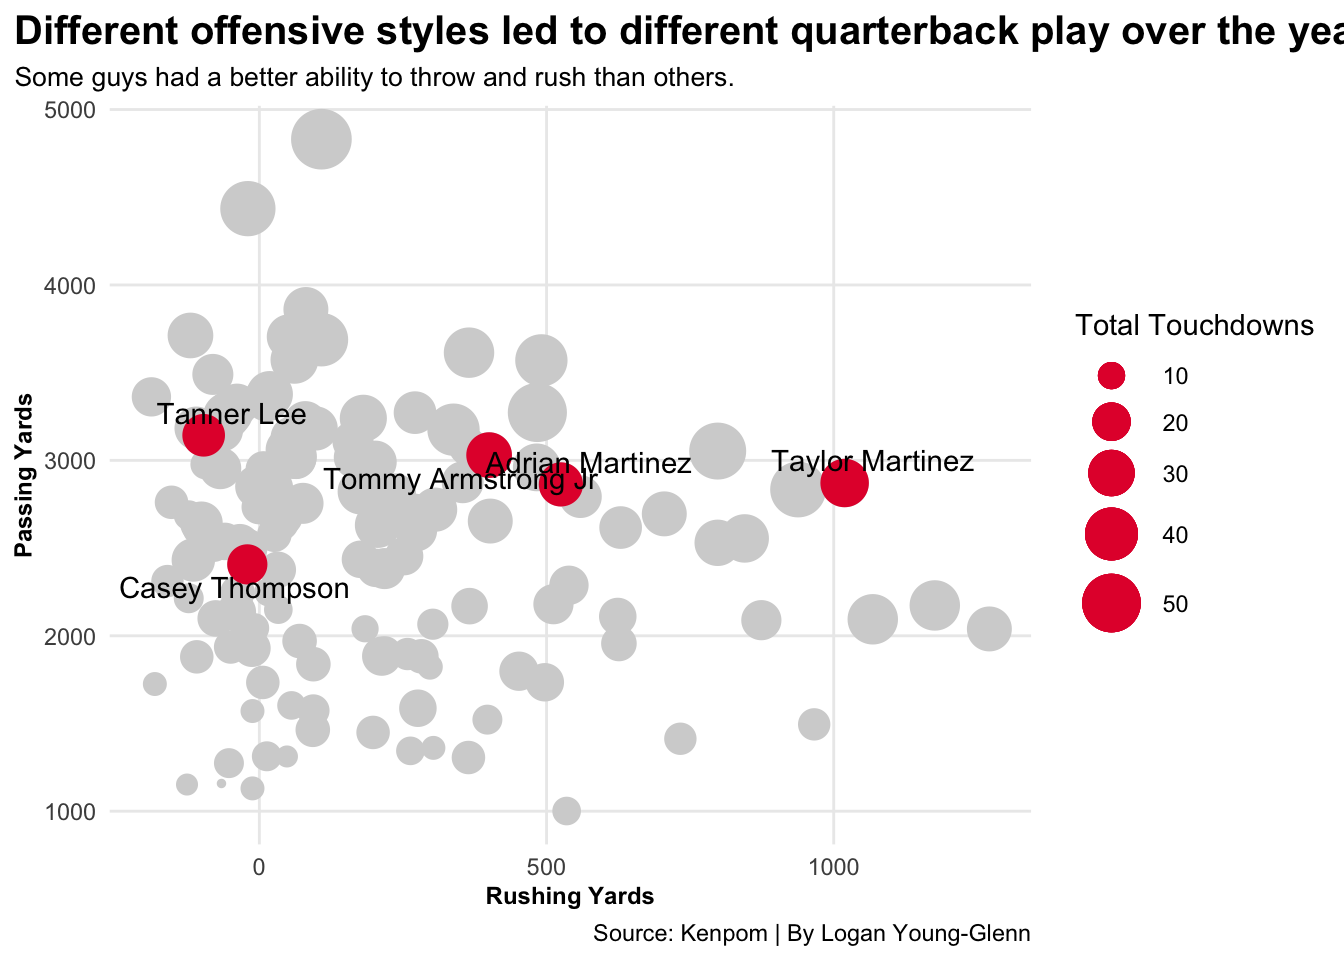
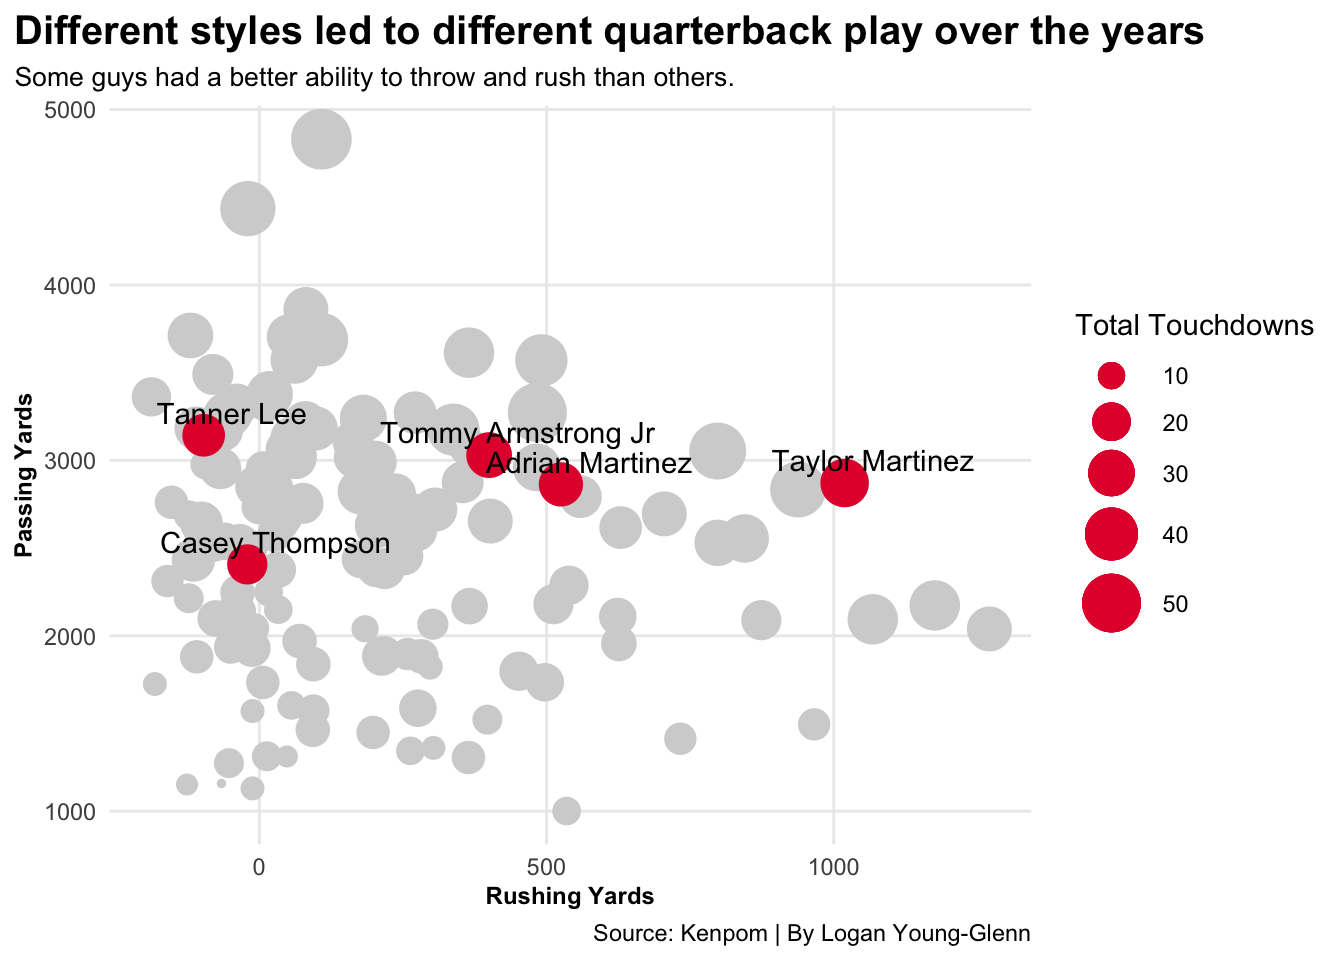
project2final2

diff --git a/posts/quarterback/index.html b/posts/quarterback/index.html
@@ -315,7 +315,7 @@ pre > code.sourceCode > span > a:first-child::before { text-decoration: underlin
 <span id="cb2-28"><a href="#cb2-28" aria-hidden="true" tabindex="-1"></a>  <span class="fu">geom_text_repel</span>(<span class="at">data=</span>tlee,<span class="fu">aes</span>(<span class="at">x=</span><span class="st">`</span><span class="at">Rush Yds</span><span class="st">`</span>, <span class="at">y=</span><span class="st">`</span><span class="at">Pass Yds</span><span class="st">`</span>, <span class="at">label=</span>Player)) <span class="sc">+</span></span>
 <span id="cb2-29"><a href="#cb2-29" aria-hidden="true" tabindex="-1"></a>  <span class="fu">geom_text_repel</span>(<span class="at">data=</span>ct11,<span class="fu">aes</span>(<span class="at">x=</span><span class="st">`</span><span class="at">Rush Yds</span><span class="st">`</span>, <span class="at">y=</span><span class="st">`</span><span class="at">Pass Yds</span><span class="st">`</span>, <span class="at">label=</span>Player)) <span class="sc">+</span> </span>
 <span id="cb2-30"><a href="#cb2-30" aria-hidden="true" tabindex="-1"></a>  <span class="fu">geom_text_repel</span>(<span class="at">data=</span>arm,<span class="fu">aes</span>(<span class="at">x=</span><span class="st">`</span><span class="at">Rush Yds</span><span class="st">`</span>, <span class="at">y=</span><span class="st">`</span><span class="at">Pass Yds</span><span class="st">`</span>, <span class="at">label=</span>Player))  <span class="sc">+</span></span>
-<span id="cb2-31"><a href="#cb2-31" aria-hidden="true" tabindex="-1"></a>  <span class="fu">labs</span>(<span class="at">x=</span><span class="st">"Rushing Yards"</span>, <span class="at">y=</span><span class="st">"Passing Yards"</span>, <span class="at">title=</span><span class="st">"Different offensive styles led to different quarterback play over the years"</span>, <span class="at">subtitle=</span><span class="st">"Some guys had a better ability to throw and rush than others."</span>, <span class="at">caption=</span><span class="st">"Source: Kenpom | By Logan Young-Glenn"</span>) <span class="sc">+</span></span>
+<span id="cb2-31"><a href="#cb2-31" aria-hidden="true" tabindex="-1"></a>  <span class="fu">labs</span>(<span class="at">x=</span><span class="st">"Rushing Yards"</span>, <span class="at">y=</span><span class="st">"Passing Yards"</span>, <span class="at">title=</span><span class="st">"Different styles led to different quarterback play over the years"</span>, <span class="at">subtitle=</span><span class="st">"Some guys had a better ability to throw and rush than others."</span>, <span class="at">caption=</span><span class="st">"Source: Kenpom | By Logan Young-Glenn"</span>) <span class="sc">+</span></span>
 <span id="cb2-32"><a href="#cb2-32" aria-hidden="true" tabindex="-1"></a>  <span class="fu">theme_minimal</span>() <span class="sc">+</span></span>
 <span id="cb2-33"><a href="#cb2-33" aria-hidden="true" tabindex="-1"></a>  <span class="fu">theme</span>(</span>
 <span id="cb2-34"><a href="#cb2-34" aria-hidden="true" tabindex="-1"></a>    <span class="at">plot.title =</span> <span class="fu">element_text</span>( <span class="at">size =</span> <span class="dv">15</span>, <span class="at">face =</span> <span class="st">"bold"</span>),</span>

diff --git a/index.html b/index.html
@@ -205,7 +205,7 @@ window.Quarto = {
 
 <div class="quarto-listing quarto-listing-container-default" id="listing-listing">
 <div class="list quarto-listing-default">
-<div class="quarto-post image-right" data-index="0" data-categories="Big Ten,Huskers,college football,quarterback" data-listing-date-sort="1714885200000" data-listing-file-modified-sort="1714971050166" data-listing-date-modified-sort="NaN" data-listing-reading-time-sort="9" data-listing-word-count-sort="1784">
+<div class="quarto-post image-right" data-index="0" data-categories="Big Ten,Huskers,college football,quarterback" data-listing-date-sort="1714885200000" data-listing-file-modified-sort="1714971254505" data-listing-date-modified-sort="NaN" data-listing-reading-time-sort="9" data-listing-word-count-sort="1783">
 <div class="thumbnail">
 <p><a href="./posts/quarterback/index.html" class="no-external"></a></p><a href="./posts/quarterback/index.html" class="no-external">
 <p><img src="./posts/quarterback/graph2.png" class="thumbnail-image"></p>
